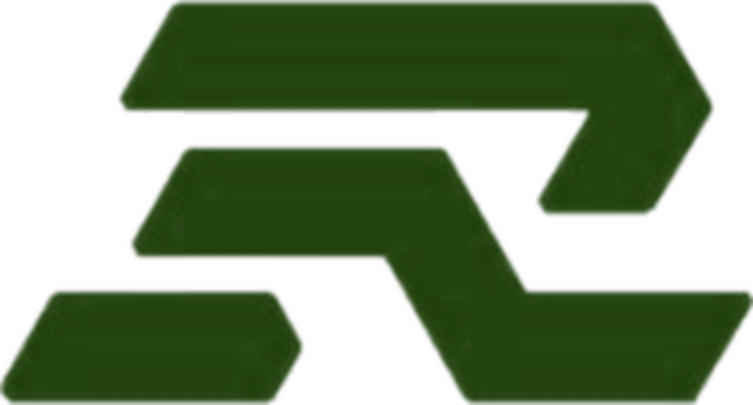
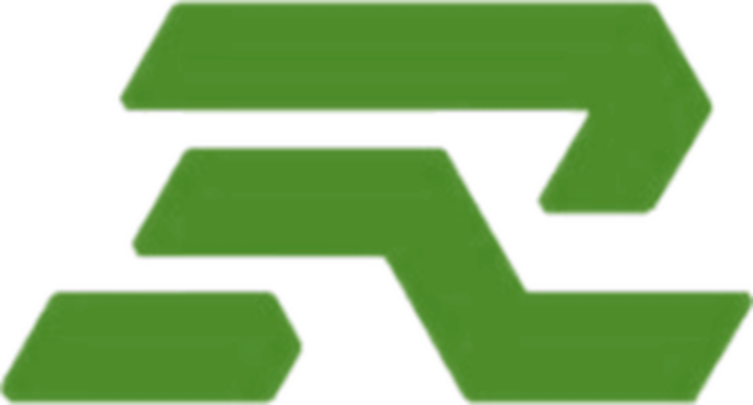
Brighter brand-green watermark tint, visible in light + dark mode [skip netlify]

diff --git a/index.html b/index.html
@@ -431,11 +431,11 @@
       }
       /* Rotating Raiku mark watermark behind the content */
       .bg-mark { position: fixed; inset: 0; display: grid; place-items: center; pointer-events: none; z-index: 0; overflow: hidden; }
-      .bg-mark img { width: min(74vmin, 780px); opacity: 0.05; animation: bgmark-in 2.5s ease-out, bgmark-sway 16s ease-in-out 2.5s infinite alternate, bgmark-breathe 22s ease-in-out 2.5s infinite alternate; will-change: transform, opacity; }
+      .bg-mark img { width: min(74vmin, 780px); opacity: 0.13; animation: bgmark-in 2.5s ease-out, bgmark-sway 16s ease-in-out 2.5s infinite alternate, bgmark-breathe 22s ease-in-out 2.5s infinite alternate; will-change: transform, opacity; }
       @keyframes bgmark-in { from { opacity: 0; } }
       @keyframes bgmark-sway { from { transform: rotate(-5deg); } to { transform: rotate(5deg); } }
       @keyframes bgmark-breathe { from { scale: 1; } to { scale: 1.05; } }
-      [data-theme="dark"] .bg-mark img { opacity: 0.08; filter: brightness(3.4) saturate(0.75); }
+      [data-theme="dark"] .bg-mark img { opacity: 0.1; filter: brightness(1.7) saturate(1.05); }
       @media (prefers-reduced-motion: reduce) { .bg-mark img { animation: none; } }
       .wrap { position: relative; z-index: 1; }
       /* Optional X identity on the holder card */
